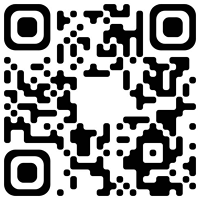
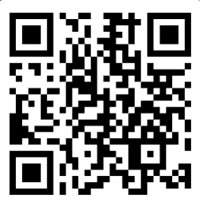
update Doge coin Address

diff --git a/contact_us.html b/contact_us.html
@@ -31,7 +31,7 @@
     <figure>
         <img class="winimg" src="/image/Doge.png" alt="MATIC address QRCode">
 
-        <figcaption class="TACenter">DEZsf6ctemZoCJWWJaahMekjx5e66b8CN8<h5>Doge Coin</h5>
+        <figcaption class="TACenter">DCXwYvj4n6NREAALcwhP8xSxjhr7hmMjv4<h5>Doge Coin</h5>
         </figcaption>
     </figure>
 
